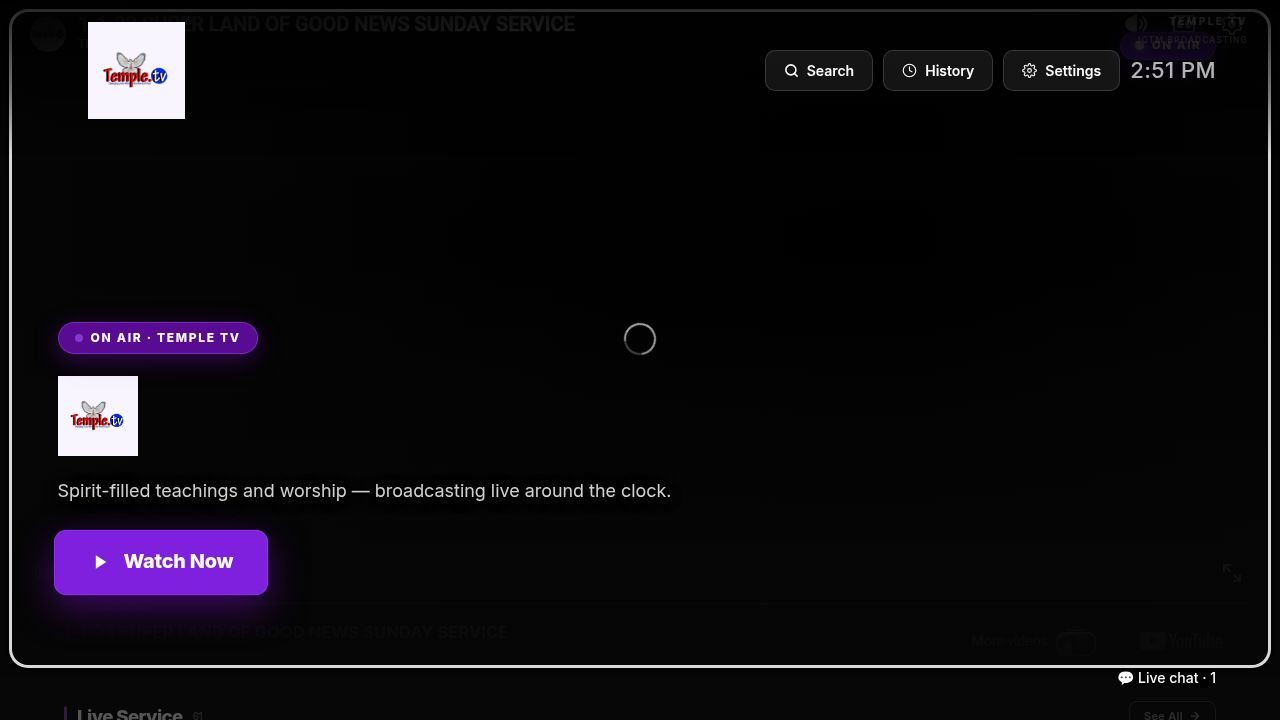
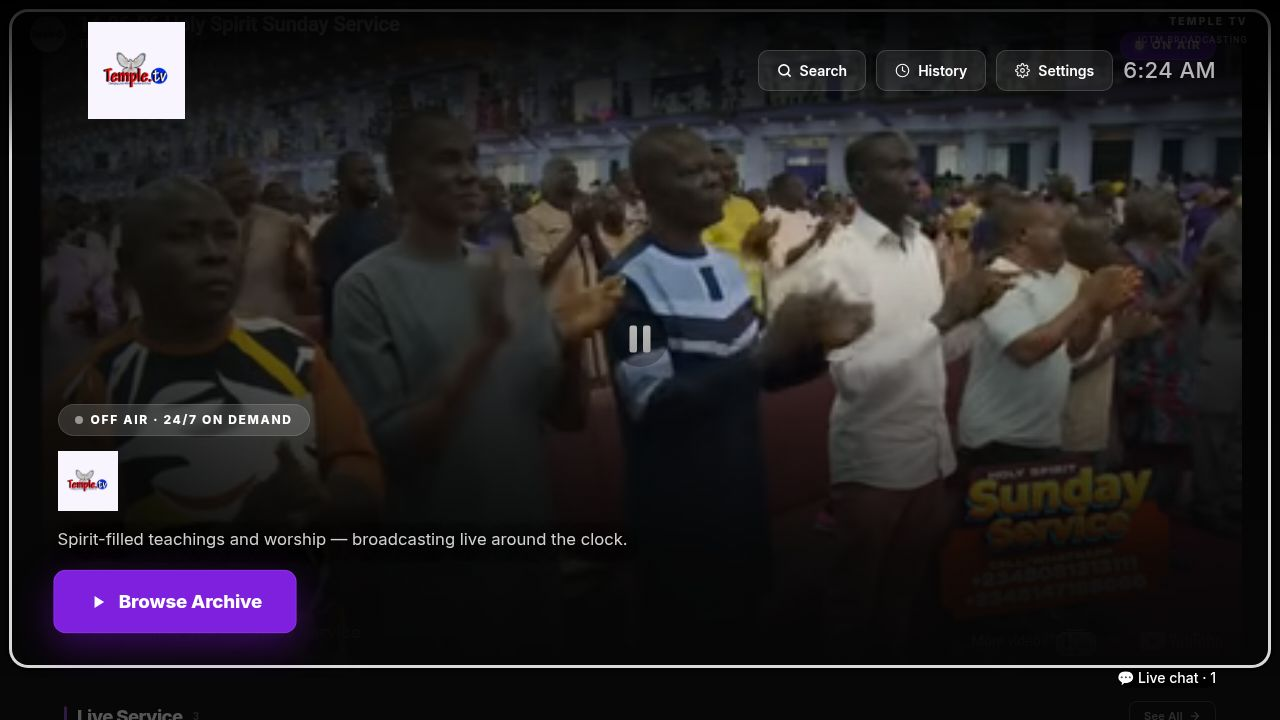
Improve live broadcast player and hero display
Adjust YouTube embed parameters for player variant to include controls and audio, add a "Broadcasting Now" banner to the hero section, and shift the hero content down to improve spacing.

Replit-Commit-Author: Agent
Replit-Commit-Session-Id: 4f18b518-217a-4a90-b0a6-89fb0fe17af6
Replit-Commit-Checkpoint-Type: full_checkpoint
Replit-Commit-Event-Id: 81dfec4a-e0a0-4d60-a833-069e44f180e6
Replit-Commit-Screenshot-Url: https://storage.googleapis.com/screenshot-production-us-central1/0bfc94af-b9fc-4584-b35c-9695598ba28a/4f18b518-217a-4a90-b0a6-89fb0fe17af6/q0en9VR

diff --git a/artifacts/tv/src/components/LiveHero.tsx b/artifacts/tv/src/components/LiveHero.tsx
@@ -148,6 +148,36 @@ export function LiveHero({ liveStatus, broadcastCurrent, focused, onSelect, view
       }}
       data-testid="live-hero"
     >
+      {/* Broadcasting identity banner — top of hero, always visible */}
+      <div
+        aria-label="Jesus Christ Temple Ministry Broadcasting Now"
+        style={{
+          position: "absolute",
+          top: 0,
+          left: 0,
+          right: 0,
+          zIndex: 18,
+          display: "flex",
+          alignItems: "center",
+          justifyContent: "center",
+          padding: "clamp(10px, 1.4vh, 18px) var(--tv-safe-h, 60px)",
+          pointerEvents: "none",
+        }}
+      >
+        <span
+          style={{
+            fontSize: "clamp(11px, 1vw, 14px)",
+            fontWeight: 700,
+            letterSpacing: "0.18em",
+            textTransform: "uppercase",
+            color: "rgba(255,255,255,0.82)",
+            textShadow: "0 1px 8px rgba(0,0,0,0.7)",
+          }}
+        >
+          ✝&nbsp; Jesus Christ Temple Ministry Broadcasting Now
+        </span>
+      </div>
+
       {/* Live-fallback flash banner — see useLiveFallbackJustTriggered. */}
       {showFallbackBanner && (
         <div

diff --git a/artifacts/tv/src/components/LiveBroadcastV2.tsx b/artifacts/tv/src/components/LiveBroadcastV2.tsx
@@ -925,12 +925,19 @@ export function LiveBroadcastV2({
         // Check active override first (LIVE_OVERRIDE_ACTIVE with YouTube kind).
         const overrideKind = server?.override?.kind;
         const overrideUrl  = server?.override?.url;
+        // hero → muted ambient preview, no controls, keyboard disabled.
+        // player → unmuted fullscreen experience, controls visible so the
+        // viewer can pause / seek / fullscreen / adjust volume.
+        const isPlayer = variant === "player";
+        const ytMute     = isPlayer ? 0 : 1;
+        const ytControls = isPlayer ? 1 : 0;
+        const ytDisableKb = isPlayer ? "" : "&disablekb=1";
         if (overrideKind === "youtube" && overrideUrl) {
           const ytId = extractYouTubeId(overrideUrl);
           if (ytId) return (
             <iframe
-              key={`override-${ytId}`}
-              src={`https://www.youtube-nocookie.com/embed/${ytId}?autoplay=1&mute=1&controls=0&rel=0&modestbranding=1&playsinline=1&iv_load_policy=3&disablekb=1&enablejsapi=1`}
+              key={`override-${ytId}-${variant}`}
+              src={`https://www.youtube-nocookie.com/embed/${ytId}?autoplay=1&mute=${ytMute}&controls=${ytControls}&rel=0&modestbranding=1&playsinline=1&iv_load_policy=3${ytDisableKb}&enablejsapi=1`}
               allow="autoplay; encrypted-media; fullscreen"
               allowFullScreen
               style={{
@@ -952,8 +959,8 @@ export function LiveBroadcastV2({
         if (!ytId) return null;
         return (
           <iframe
-            key={ytId}
-            src={`https://www.youtube-nocookie.com/embed/${ytId}?autoplay=1&mute=1&controls=0&rel=0&modestbranding=1&playsinline=1&iv_load_policy=3&disablekb=1&enablejsapi=1`}
+            key={`${ytId}-${variant}`}
+            src={`https://www.youtube-nocookie.com/embed/${ytId}?autoplay=1&mute=${ytMute}&controls=${ytControls}&rel=0&modestbranding=1&playsinline=1&iv_load_policy=3${ytDisableKb}&enablejsapi=1`}
             allow="autoplay; encrypted-media; fullscreen"
             allowFullScreen
             style={{

diff --git a/artifacts/tv/src/pages/Home.tsx b/artifacts/tv/src/pages/Home.tsx
@@ -470,7 +470,7 @@ export function Home({ onNavigateSearch, onNavigateHistory, onNavigateSettings, 
       {/* Scrollable content */}
       <div ref={scrollRef} style={{ position: "absolute", inset: 0, overflowY: "auto", overflowX: "hidden", paddingBottom: "max(40px, calc(var(--mobile-nav-h) + env(safe-area-inset-bottom, 0px) + 12px))" }}>
         {/* Hero */}
-        <div style={{ marginBottom: 24 }}>
+        <div style={{ marginBottom: 24, marginTop: 32 }}>
           <LiveHero
             liveStatus={liveStatus}
             broadcastCurrent={broadcastCurrent}